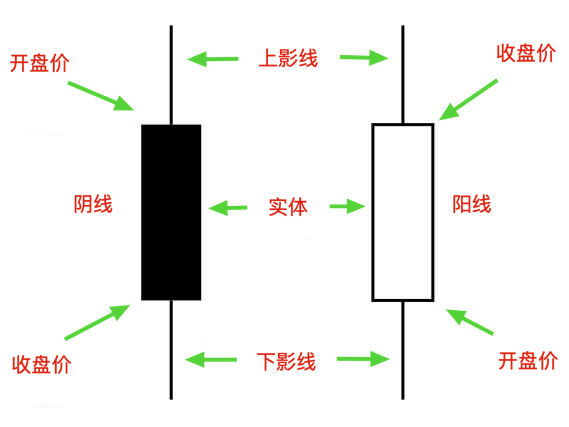
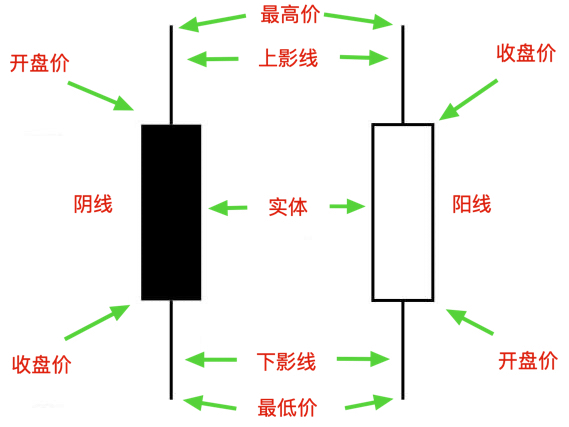
GitBook: [master] one page and one asset modified

diff --git a/01.md b/01.md
@@ -18,9 +18,39 @@
 
 > 你细想一下，卖方推动价格的下跌，结果遇到了更强力量的买方，价格自然就会上涨，这就是下影线形成的过程。
 
-实体：买方或卖方一方的投降。
+实体：买方或卖方的投降。
 
 > 你细想一下，在一个实体的内部，无论阴线还是阳线，一定是一方的力量远大于另一才能形成实体。
+
+## K线的变形
+
+光头光脚阳线
+
+> 没有上下影线或者上下影线都很短，代表着买方力量远远大于卖方，买方没有经过争夺便战胜了卖方。
+
+光头光脚阴线
+
+> 没有上下影线或者上下影线都很短，代表着买方力量远远小于卖方，卖方没有经过争夺便战胜了买方。
+
+实体很短，上下影响也很短或者没有上下影线
+
+> 出现这K线，往往意味着多空双方都没有交易的意愿，市场低迷。
+
+实体很短，上下影响都很长
+
+> 说明上有压力，下有支撑，买卖双方力量相差无几，交投意愿强烈，有洗盘嫌疑。
+
+实体很短，上影线很长
+
+> 说明卖方力量远远大于买方。
+
+实体很短，下影线很长
+
+> 说明买方力量远远大于卖方。
+
+## K线形状与所处位置的关系
+
+只谈K线不谈位置，则K线的意义将变得微乎其微。
 
 
 
